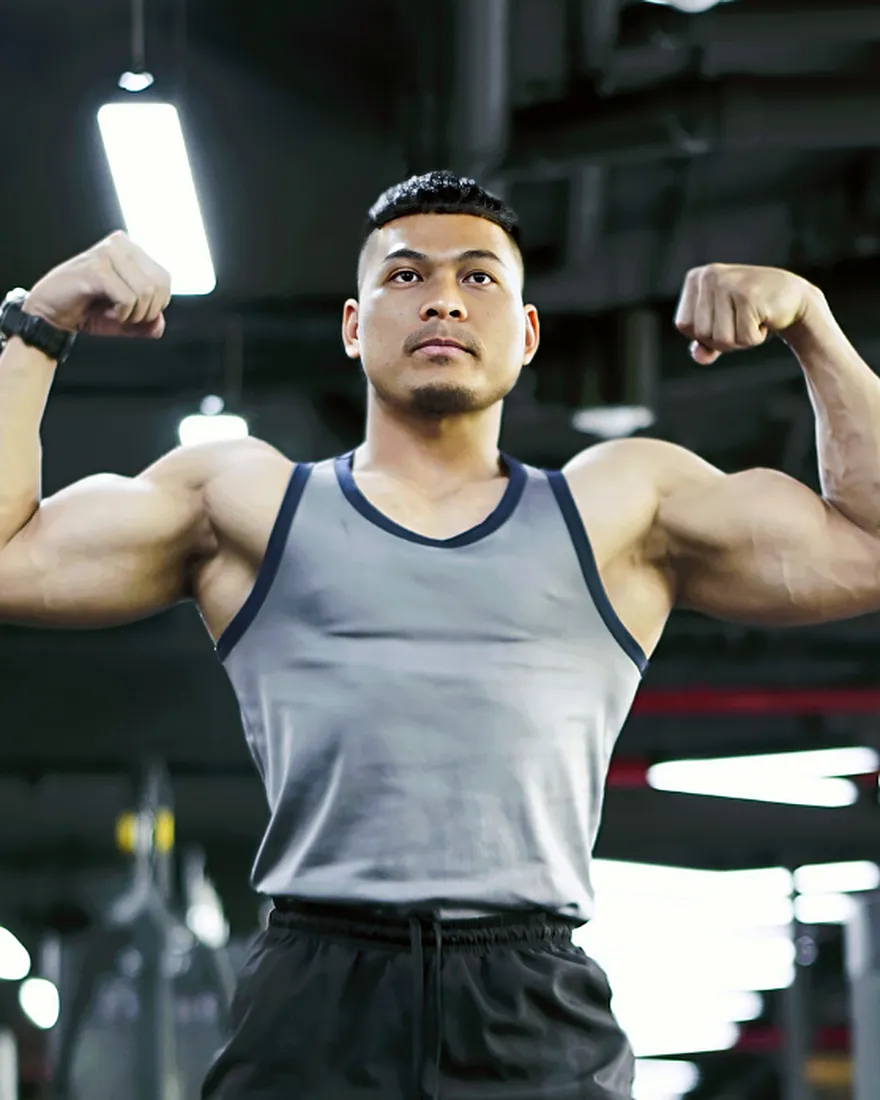
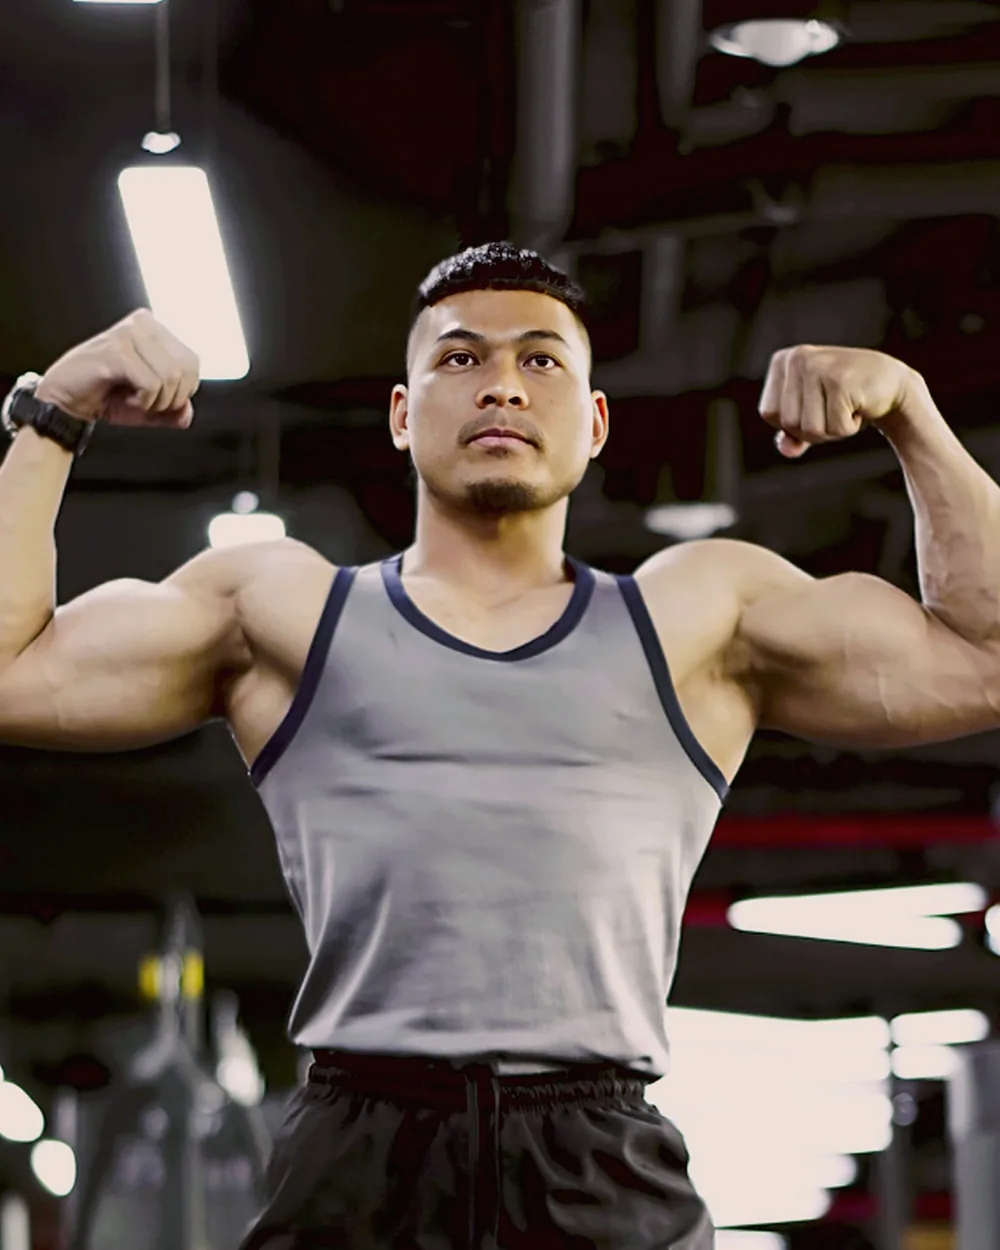
Before/after: align and tone-match the pair
- re-crop both photos from the originals so eye-line, face centre and head size
  agree and the 50% split falls down the nose
- match skin tone and exposure at the seam (crop, scale and colour only)
- export at 1000x1250 for sharper phone screens; drop the CSS desaturate filter
- cache-bust the two image URLs (?v=2)
- mobile: stop the two slider labels overlapping on phones

Claude-Session: https://claude.ai/code/session_015NHhrREATi4G7YsXCL5NXt

diff --git a/css/style.css b/css/style.css
@@ -198,12 +198,18 @@ section { position: relative; }
 .formula { font-family: var(--mono); font-size: 13px; color: var(--fg); border-left: 2px solid var(--lime); padding: 4px 0 4px 14px; }
 .ba { position: relative; aspect-ratio: 4 / 5; border-radius: 8px; overflow: hidden; background: var(--panel); user-select: none; touch-action: pan-y; max-width: 100%; --pos: 50%; }
 .ba img { position: absolute; inset: 0; width: 100%; height: 100%; object-fit: cover; pointer-events: none; }
-.ba .before { clip-path: inset(0 calc(100% - var(--pos)) 0 0); filter: saturate(.85); }
+.ba .before { clip-path: inset(0 calc(100% - var(--pos)) 0 0); } /* tone is matched in the image files now */
 .ba-handle { position: absolute; top: 0; bottom: 0; left: var(--pos); width: 2px; background: var(--lime); transform: translateX(-1px); pointer-events: none; }
 .ba-handle::after { content: "⟷"; position: absolute; top: 50%; left: 50%; transform: translate(-50%, -50%); width: 52px; height: 52px; border-radius: 50%; background: var(--lime); color: var(--on-lime); display: grid; place-items: center; font-size: 22px; font-weight: 700; box-shadow: 0 0 0 8px rgba(163,230,53,.18); }
 .ba-label { position: absolute; bottom: 16px; font-family: var(--mono); font-size: 11px; letter-spacing: .1em; text-transform: uppercase; background: rgba(7,9,7,.78); padding: 6px 10px; border-radius: 4px; pointer-events: none; }
 .ba-label.l { left: 16px; }
 .ba-label.r { right: 16px; color: var(--lime); }
+@media (max-width: 480px) {
+  /* two labels no longer fit on one line side by side: let each wrap in its own half */
+  .ba-label { bottom: 10px; font-size: 10px; letter-spacing: .06em; line-height: 1.35; padding: 5px 8px; max-width: calc(50% - 14px); }
+  .ba-label.l { left: 10px; }
+  .ba-label.r { right: 10px; text-align: right; }
+}
 .ba input { position: absolute; inset: 0; width: 100%; height: 100%; opacity: 0; cursor: ew-resize; margin: 0; }
 .ba:has(input:focus-visible) { outline: 2px solid var(--lime); outline-offset: 4px; }
 @media (max-width: 860px) { .ba-grid { grid-template-columns: minmax(0, 1fr); } }

diff --git a/index.html b/index.html
@@ -270,8 +270,8 @@
         <div class="reveal"><a class="btn btn-primary" href="#book">Start your journey <span class="arrow">→</span></a></div>
       </div>
       <div class="ba reveal-img" id="ba" data-cursor="Drag">
-        <img src="images/web/transformation-after.webp" alt="Phen after the transformation, flexing in the gym" loading="lazy">
-        <img class="before" src="images/web/transformation-before.webp" alt="Phen before the transformation" loading="lazy">
+        <img src="images/web/transformation-after.webp?v=2" alt="Phen after the transformation, flexing in the gym" loading="lazy">
+        <img class="before" src="images/web/transformation-before.webp?v=2" alt="Phen before the transformation" loading="lazy">
         <div class="ba-handle"></div>
         <span class="ba-label l">Phase 1 · Starting point</span>
         <span class="ba-label r">Phase 2 · Consistency</span>
